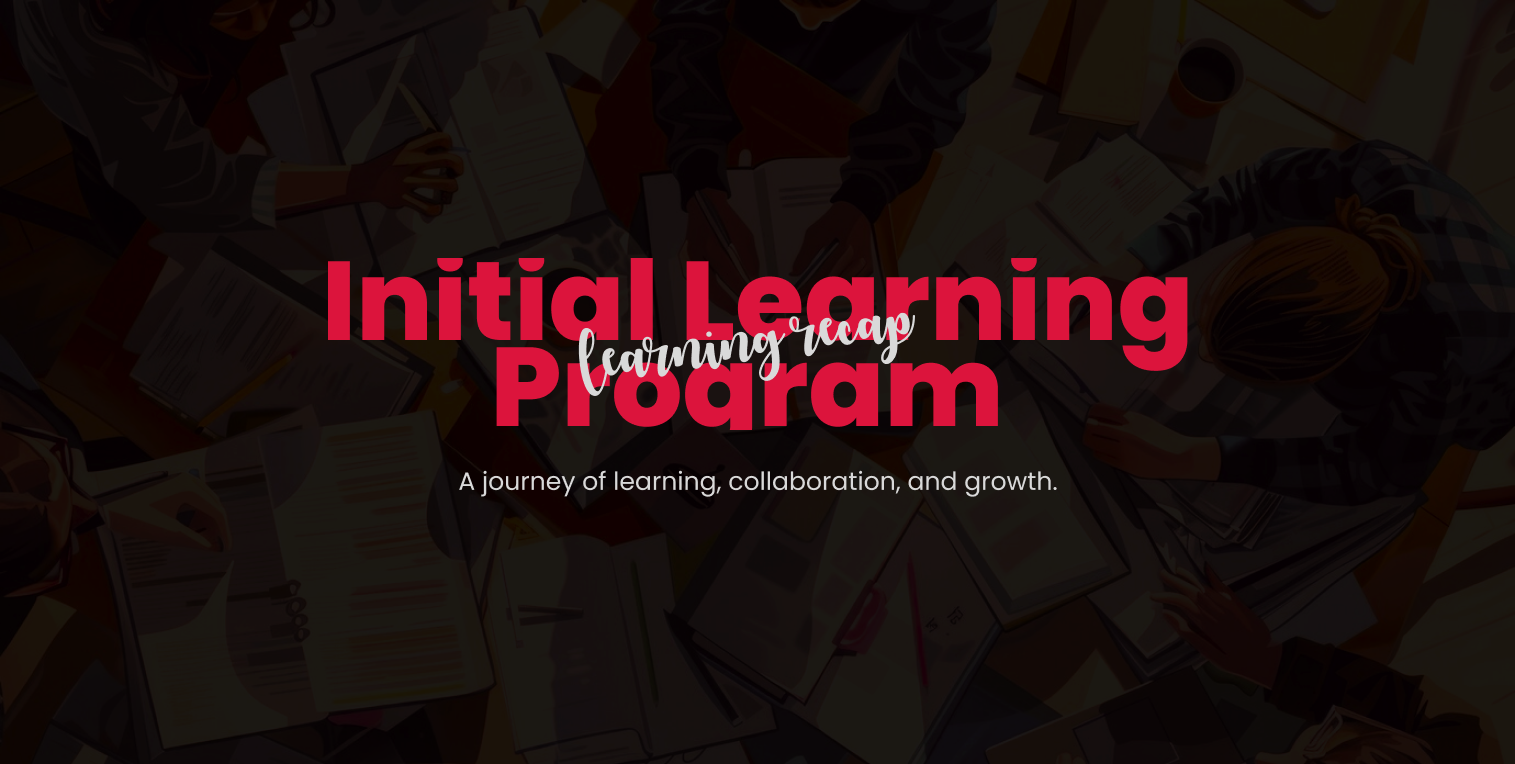
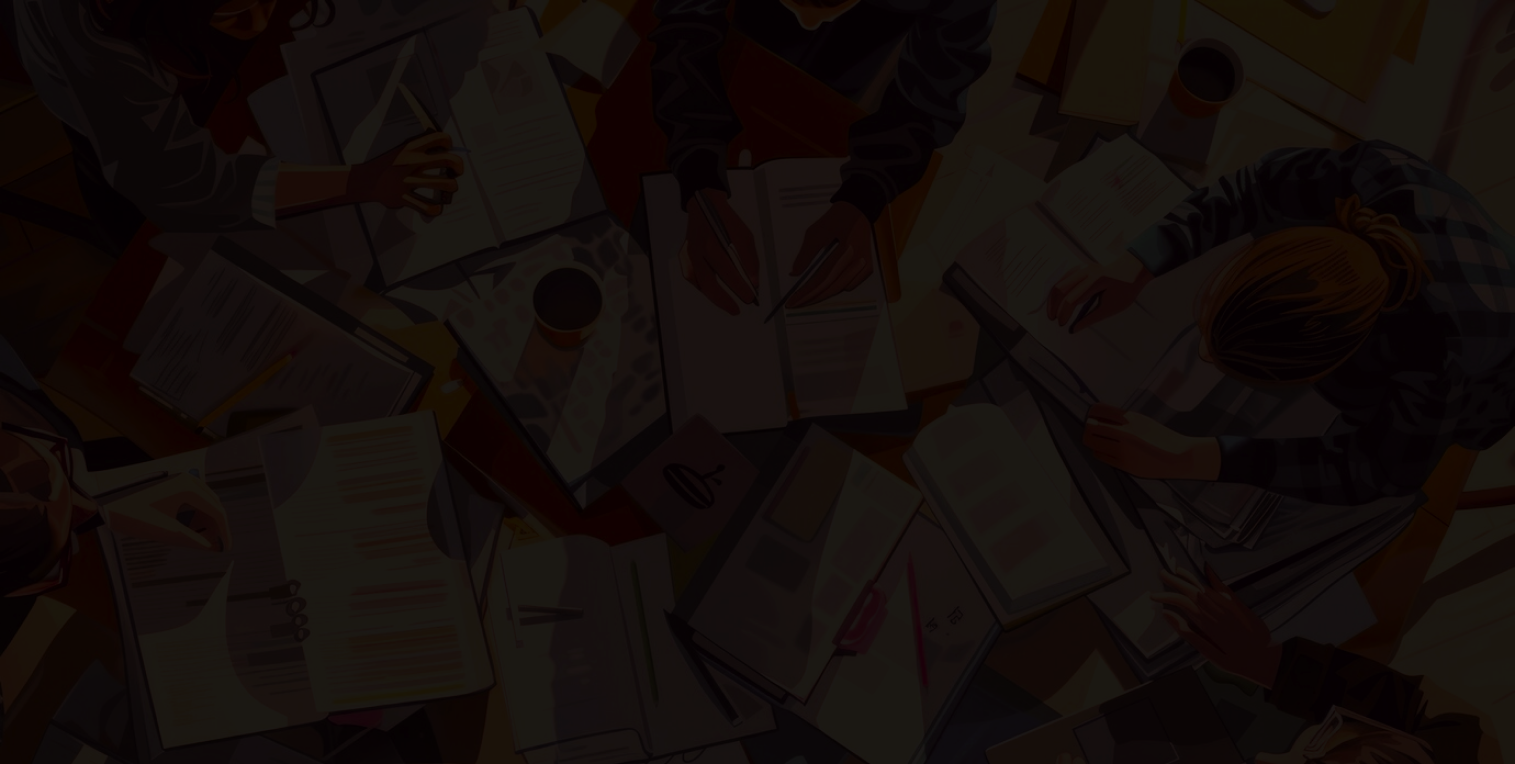
Changes

Changed region(s): [[0.2172, 0.3312, 0.8066, 0.572], [0.3102, 0.6021, 0.6825, 0.6623]]

diff --git a/index.html b/index.html
@@ -21,8 +21,8 @@
         </ul>
     </nav>
     
-    <div>
-        <img src="media/bg.png" alt="Initial Learning Program Recap" id="background">
+    <div id="background">
+        <img src="media/ilp.png" alt="Initial Learning Program Recap" id="background-img">
     </div>
     
     <div class="dark-bg-curv" style="height: 400px;">
@@ -31,10 +31,11 @@
                 <div class="card-container" id="card-container"></div>
             </div>
             <button class="prev" id="prev">&#10094;</button>
-            <button class="next" id="next">&#10095;</button>    
+            <button class="next" id="next">&#10095;</button>   
+            <div class="dots-container" id="dots-container"></div> 
         </div>
     </div>
-
+    
     <footer>
         <p>Learning. Growing. Together.</p>
     </footer>
@@ -43,9 +44,11 @@
         const cardContainer = document.getElementById('card-container');
         const prevButton = document.getElementById('prev');
         const nextButton = document.getElementById('next');
+        const dotsContainer = document.getElementById('dots-container');
 
         const isIndexPage = window.location.pathname.includes("index.html");
         const numCardsToDisplay = isIndexPage ? 3 : 20;
+        const totalSets = Math.ceil(20 / 3);
 
         const days = Array.from({ length: 20 }, (_, i) => ({
             day: i + 1,
@@ -85,6 +88,31 @@
                 const card = createCard(day);
                 cardContainer.appendChild(card);
             });
+
+            updateDots();
+        }
+
+        function createDots() {
+            for (let i = 0; i < totalSets; i++) {
+                const dot = document.createElement('span');
+                dot.classList.add('dot');
+                dot.addEventListener('click', () => {
+                    currentIndex = i;
+                    displayCards();
+                });
+                dotsContainer.appendChild(dot);
+            }
+        }
+
+        function updateDots() {
+            const dots = document.querySelectorAll('.dot');
+            dots.forEach((dot, index) => {
+                if (index === currentIndex) {
+                    dot.classList.add('active-dot');
+                } else {
+                    dot.classList.remove('active-dot');
+                }
+            });
         }
 
         nextButton.addEventListener('click', () => {
@@ -98,6 +126,7 @@
         });
 
         if (isIndexPage) {
+            createDots();
             displayCards(); 
         } else {
             days.forEach((day) => {

diff --git a/style.css b/style.css
@@ -50,14 +50,34 @@ nav {
     font-weight: 600;
 }
 
-#background {
+#background-img {
     z-index: -1;
     width: 100%;
     position: relative;
 }
+#background-day {
+    z-index: -1;
+    width: 100%;
+    position: relative;
+}
+#background {
+    z-index: -1;
+    position: relative;
+    top: 0;
+    left: 0;
+    width: 100%;
+    height: 80%;
+    background-image: url(media/bg.png);
+    background-size: cover;
+    background-position: center; 
+    background-repeat: no-repeat;
+    margin: 0;
+    padding: 0;
+    overflow: hidden;
+}
 
 footer {
-    margin-top: 165px;
+    margin-top: 135px;
     background-color: #DC143C;
     color: #d9d9d9;
     text-align: center;
@@ -90,8 +110,9 @@ footer {
 }
 .dark-daycard {
     width: 90%;
-    height: 160%;
+    height: auto;
     padding-top: 40px;
+    padding-bottom: 50px;
     margin: auto;
     flex-shrink: 0;
     border-radius: 36px 36px 0px 0px;
@@ -211,13 +232,61 @@ button:hover {
     opacity: 0.8;
 }
 
+.dot {
+    display: inline-block;
+    width: 10px;
+    height: 10px;
+    margin: 0 5px;
+    border-radius: 50%;
+    background-color: #D9D9D9;
+    cursor: pointer;
+    z-index: 100;
+}
+
+.active-dot {
+    z-index: 100;
+    background-color: #DC143C; 
+}
+
+.dots-container {
+    display: flex;          
+    justify-content: center;
+    align-items: center;    
+    margin-top: 20px;      
+}
 
 
-@media screen and (max-width: 800px) {
+@media screen and (max-width: 600px) {
     .day-card {
         width: 200px;
     }
     .headline {
         margin-top: 80px;
     }
+    .dark-daycard {
+        height: auto;
+    }
+    footer {
+        margin-top: 600px;
+    }
+    #background {
+        background-image: url(media/bg-mobile.png);
+        margin: 0;
+        padding: 0;
+        height: 70vh;
+    }
+    #background-img {
+        z-index: -1;
+        width: 100%;
+        scale: 1.5;
+        margin-top: 38vh;
+        position: relative;
+    }
+    nav {
+        background-color: #1919198c;
+    }
+    #dark-bg-curv{
+        padding-top: 150px;
+    }
 }
+

diff --git a/days.html b/days.html
@@ -21,9 +21,9 @@
         </ul>
     </nav>
     
-    <div>
-        <img src="media/bg-days.png" alt="Initial Learning Program Recap" id="background" style="margin-top: -50px; margin-bottom: -120px">
-        
+    <div id="background-day" class="background-day">
+        <img src="media/bg-days.png" alt="Initial Learning Program Recap" id="background-day" style="margin-top: -50px; margin-bottom: -120px">
+        <p id="day-title" class="headline2" class="headline">Days</p>
     </div>
 
     <div id="dark-bg-curv">

diff --git a/data.html b/data.html
@@ -24,7 +24,7 @@
     </nav>
     
     <div>
-        <img src="media/ilp-day-x.png" alt="Initial Learning Program Recap" id="background" style="margin-top: -50px; margin-bottom: -390px">
+        <img src="media/ilp-day-x.png" alt="Initial Learning Program Recap" id="background-day" style="margin-top: -50px; margin-bottom: -390px; background-color: #191919;">
         <p id="day-title" class="headline">ILP Day 1</p>
     </div>
     <div id="course-container">
